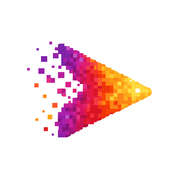
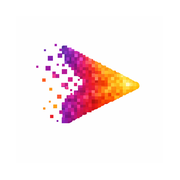
fix(brand): use authoritative G2 pixels-mark master (207445 bytes)
Copy exact upload to pixels-brand/ and public/assets/brand/, preserve
master bytes verbatim in generate-brand-icons.py, and regenerate all
derived icons from white-background flood-fill keying.

diff --git a/scripts/generate-brand-icons.py b/scripts/generate-brand-icons.py
@@ -5,8 +5,7 @@ from __future__ import annotations
 
 import base64
 import io
-import os
-import struct
+import shutil
 from pathlib import Path
 
 import numpy as np
@@ -127,7 +126,7 @@ def main() -> None:
     master_rgba = white_background_to_alpha(master_rgb)
 
     BRAND_DIR.mkdir(parents=True, exist_ok=True)
-    save_png(master_rgb, BRAND_DIR / "pixels-mark.png")
+    shutil.copy2(source, BRAND_DIR / "pixels-mark.png")
     save_png(master_rgba, BRAND_DIR / "pixels-mark-transparent.png")
     save_png(fit_on_canvas(master_rgba, 256, 0.88, None), BRAND_DIR / "pixels-mark-icon-256.png")
 
